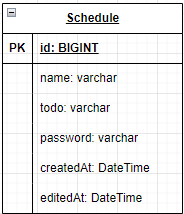
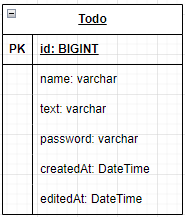
feat: add save, find, update todo features

diff --git a/src/main/java/com/todo/repository/JdbcTemplateTodoRepository.java b/src/main/java/com/todo/repository/JdbcTemplateTodoRepository.java
@@ -8,32 +8,38 @@ import org.springframework.jdbc.core.simple.SimpleJdbcInsert;
 import org.springframework.stereotype.Repository;
 
 import java.util.HashMap;
+import java.util.List;
 import java.util.Map;
 
 @Repository
-public class ScheduleRepositoryImpl implements ScheduleRepository{
+public class TodoRepositoryImpl implements TodoRepository {
 
     private final JdbcTemplate jdbcTemplate;
 
-    public ScheduleRepositoryImpl(JdbcTemplate jdbcTemplate) {
+    public TodoRepositoryImpl(JdbcTemplate jdbcTemplate) {
         this.jdbcTemplate = jdbcTemplate;
     }
 
     @Override
-    public TodoResponseDto saveSchedule(Todo todo) {
+    public TodoResponseDto saveTodo(Todo todo) {
         SimpleJdbcInsert jdbcInsert = new SimpleJdbcInsert(jdbcTemplate);
-        jdbcInsert.withTableName("schedule").usingGeneratedKeyColumns("id");
+        jdbcInsert.withTableName("todo").usingGeneratedKeyColumns("id");
         Map<String, Object> parameters = new HashMap<>();
-        parameters.put("todo", todo.getTodo());
+        parameters.put("text", todo.getText());
         parameters.put("name", todo.getName());
         parameters.put("password", todo.getPassword());
-
+        parameters.put("created_at", todo.getCreatedAt());
 
         Number key = jdbcInsert.executeAndReturnKey(new MapSqlParameterSource(parameters));
         return new TodoResponseDto(key.longValue(),
-                todo.getTodo(),
+                todo.getText(),
                 todo.getName(),
                 todo.getCreatedAt(),
                 todo.getEditedAt());
+    }
+
+    @Override
+    public List<TodoResponseDto> findAllTodos() {
+        return List.of();
     }
 }

diff --git a/src/main/java/com/todo/service/TodoServiceImpl.java b/src/main/java/com/todo/service/TodoServiceImpl.java
@@ -1,0 +1,22 @@
+package com.todo.service;
+
+import com.todo.dto.TodoRequestDto;
+import com.todo.dto.TodoResponseDto;
+import com.todo.entity.Todo;
+import com.todo.repository.TodoRepository;
+import org.springframework.stereotype.Service;
+
+@Service
+public class ScheduleServiceImpl implements ScheduleService{
+    private final TodoRepository scheduleRepository;
+
+    public ScheduleServiceImpl(TodoRepository scheduleRepository) {
+        this.scheduleRepository = scheduleRepository;
+    }
+
+    @Override
+    public TodoResponseDto saveSchedule(TodoRequestDto dto) {
+        Todo schedule = new Todo(dto.getText(), dto.getName(), dto.getPassword());
+        return scheduleRepository.saveSchedule(schedule);
+    }
+}

diff --git a/src/main/java/com/todo/service/TodoService.java b/src/main/java/com/todo/service/TodoService.java
@@ -1,0 +1,8 @@
+package com.todo.service;
+
+import com.todo.dto.TodoRequestDto;
+import com.todo.dto.TodoResponseDto;
+
+public interface ScheduleService {
+    TodoResponseDto saveSchedule(TodoRequestDto dto);
+}

diff --git a/src/main/java/com/todo/TodoApplication.java b/src/main/java/com/todo/TodoApplication.java
@@ -1,4 +1,4 @@
-package com.scheduler;
+package com.todo;
 
 import org.springframework.boot.SpringApplication;
 import org.springframework.boot.autoconfigure.SpringBootApplication;

diff --git a/src/test/java/com/todo/TodoApplicationTests.java b/src/test/java/com/todo/TodoApplicationTests.java
@@ -1,4 +1,4 @@
-package com.scheduler;
+package com.todo;
 
 import org.junit.jupiter.api.Test;
 import org.springframework.boot.test.context.SpringBootTest;
